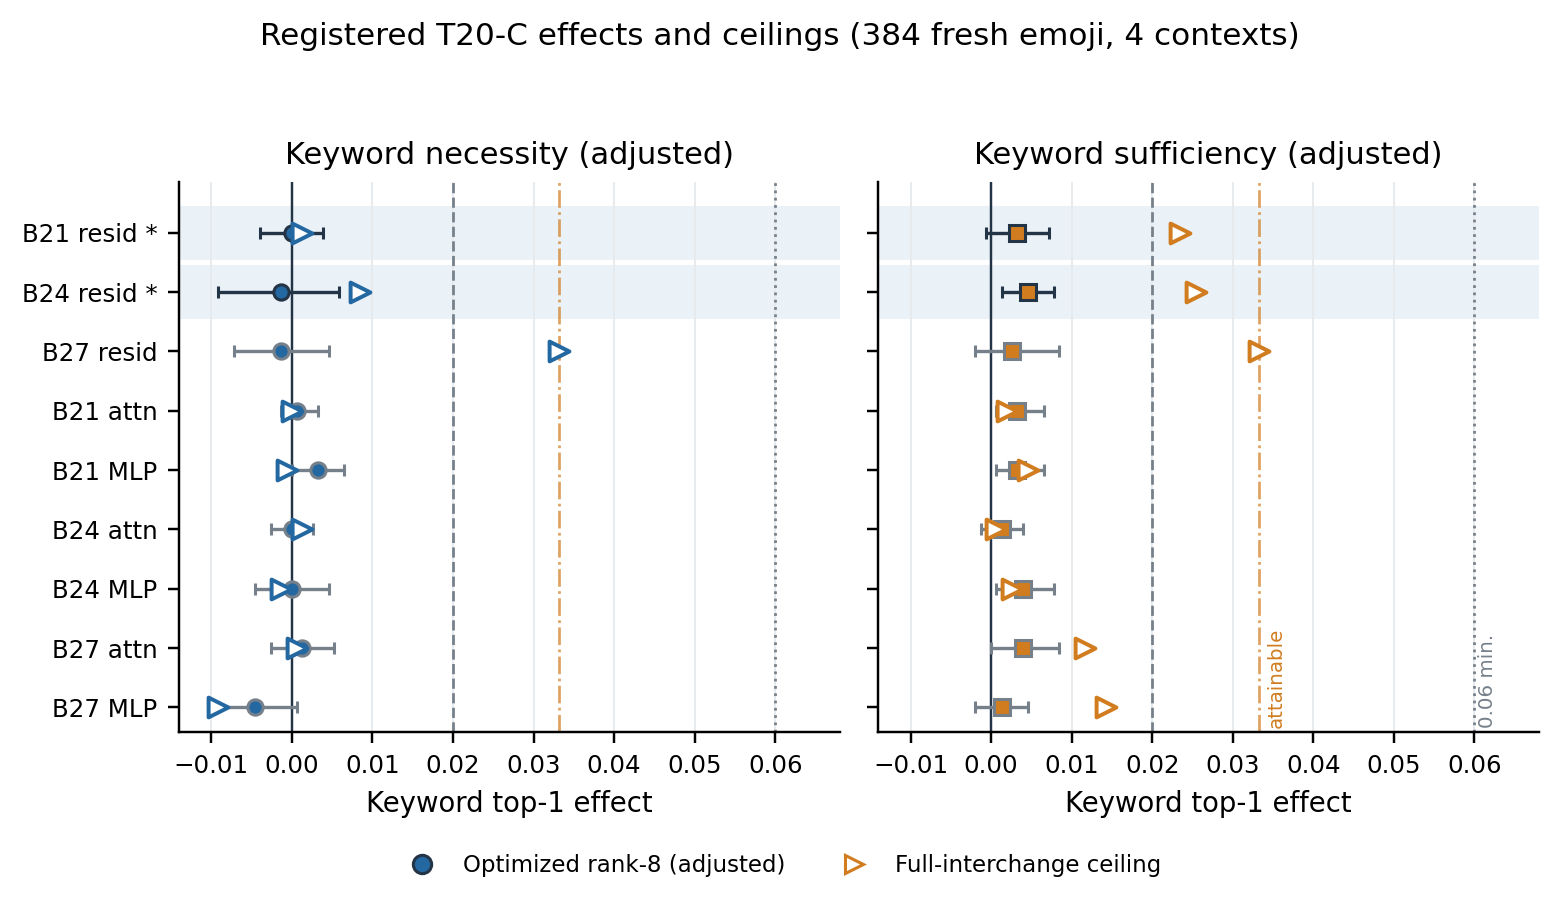
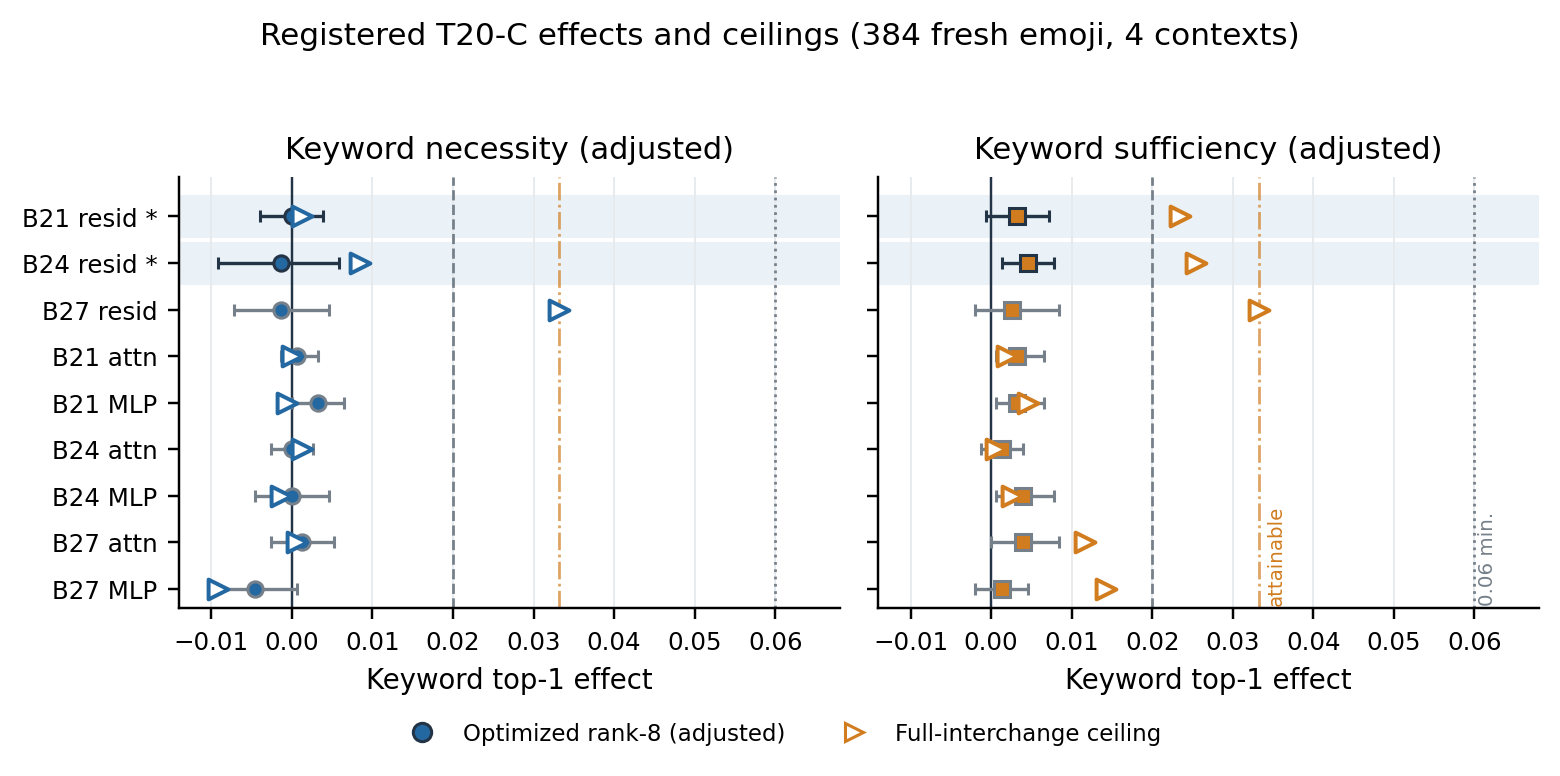
Tighten T20 additions to restore main-text page budget

diff --git a/paper/main.tex b/paper/main.tex
@@ -48,14 +48,12 @@ primary site satisfies the joint necessity-and-sufficiency criterion under
 this single-context, low-baseline test. A second admitted follow-up adds
 interchange-optimized subspaces, residual-stream sites, 384 fresh emoji in
 four contexts, and full-interchange ceilings as positive controls. Its
-registered verdict is that the primary sites are uncalibratable: full
-replacement of the readout-token residual stream at blocks 21--24 transfers
-at most 76\% of the attainable sufficiency range and destroys at most 25\% of
-the necessity range, while the same swap at block 27 transfers retrieval
-exactly. The lexical relation holds in all nine prespecified configurations;
-the readout-token late-subspace account remains unsupported at every tested
-rank, and the final-state signal is instead assembled late from glyph-position
-context.
+registered verdict is that both primary sites are uncalibratable, and the
+ceilings localize the signal: full readout-token swaps transfer retrieval
+exactly at block 27 yet destroy almost nothing at blocks 21--24, so the
+final-state lexical signal is assembled late from glyph-position context.
+The lexical relation holds in all nine prespecified configurations; the
+readout-token late-subspace account remains unsupported at every tested rank.
 \end{abstract}
 
 \section{Introduction}
@@ -104,12 +102,11 @@ results:
   that is jointly necessary and sufficient. A secondary block-27 MLP patch
   raises the composite endpoint through keyword gains and codepoint losses;
   its necessity criterion fails.
-  \item A second conditionally admitted experiment tests whether any rank-8
-  subspace learnable by interchange optimization carries the relation, and
-  calibrates every site with full-interchange ceilings. The registered verdict
-  is uncalibratable at both primary residual-stream sites, and the ceilings
-  localize the attainable signal: near-total at block 27, mostly absent from
-  the readout-token stream at blocks 21--24.
+  \item A second admitted experiment learns rank-8 subspaces by interchange
+  optimization and calibrates every site with full-interchange ceilings. Its
+  registered verdict is uncalibratable at both primary residual sites; the
+  ceilings localize the attainable signal to the final blocks and to
+  glyph-position context.
 \end{itemize}
 
 The observational result extends beyond exact-short-name retrieval under the
@@ -342,52 +339,46 @@ may be replaced after seeing the result.
 
 The T19-C design left its own power uncalibrated. A second experiment,
 admitted only after the T19-C analysis was validated and frozen, changes
-exactly five prespecified things. First, the tested rank-8 basis may be
-\emph{learned}: an orthogonally parametrized subspace is trained on the same
-128 source emoji by interchange optimization (InfoNCE toward the own-item
-keyword state for the patched codepoint forward, plus a hinge pushing the
-ablated glyph forward below its own keyword), with a fixed 96/32
-train/validation split, three seeds, and a pinned selection rule; the T19
-closed-form basis and the deflated random control are recomputed at every
-site as comparators. Second, the residual stream after blocks 21, 24, and 27
-joins the six component sites; the two primaries are the block-21 and
-block-24 residual sites. Third, the decision is gated on the keyword
-component alone, with a codepoint self-retrieval guard ($\geq 0.90$ under the
-learned patch), so that representational disruption cannot pass as
-sufficiency. Fourth, evaluation uses 384 fresh atomic emoji with zero prior
-T19 or T20 forwards, drawn only after re-running the frozen T19 selection
-builder reproduced the frozen selection manifest byte-identically; each item
-is read in four contexts (two carriers $\times$ distances 1 and 4), and
-per-item values are context means. Fifth, every site carries two
-full-interchange ceilings as positive controls: replacing the entire site
-state of the codepoint forward with the same item's glyph state bounds
-attainable sufficiency, and the reverse swap bounds attainable necessity. The
-registered interpretation rule states that a primary site failing the
-decision while its sufficiency ceiling is below $0.06$ is recorded as
-\emph{uncalibratable at this endpoint} rather than as evidence against the
-low-rank account; no ceiling value can flip a failed decision to positive.
-Floors, sign-flip and bootstrap procedures, Holm correction, and exact
+exactly five prespecified things. (i) The rank-8 basis may be \emph{learned}:
+an orthogonally parametrized subspace is trained on the same 128 source emoji
+by interchange optimization (InfoNCE toward the own-item keyword state for
+the patched codepoint forward, plus a hinge pushing the ablated glyph forward
+below its own keyword), with a fixed 96/32 train/validation split, three
+seeds, and a pinned selection rule; the closed-form and random bases are
+recomputed at every site as comparators. (ii) The residual stream after
+blocks 21, 24, and 27 joins the six component sites, with the block-21 and
+block-24 residual sites primary. (iii) The decision is gated on the keyword
+component alone, with a codepoint self-retrieval guard ($\geq0.90$ under the
+learned patch), so disruption cannot pass as sufficiency. (iv) Evaluation
+uses 384 fresh atomic emoji with zero prior T19/T20 forwards, drawn only
+after re-running the frozen T19 selection builder reproduced the frozen
+manifest byte-identically, each read in four contexts (two carriers $\times$
+distances 1 and 4) with per-item context means. (v) Every site carries two
+full-interchange ceilings: swapping the entire site state between same-item
+glyph and codepoint forwards bounds attainable sufficiency and necessity. By
+the registered rule, a primary site that fails while its sufficiency ceiling
+is below $0.06$ is recorded as \emph{uncalibratable at this endpoint} rather
+than as evidence against the low-rank account, and no ceiling can flip a
+failed decision to positive. Floors, tests, Holm correction, and exact
 engineering gates are unchanged from T19-C.
 
 \subsection{Freeze, admission, and audit chain}
 \label{sec:freeze}
 
 The prospective claims above are enforced mechanically rather than asserted.
-A freeze step hashes every protocol asset (configuration, item selections,
-acquisition and analysis code, preflight receipts) into a manifest that can
-only be built while two zero-forward preflight receipts exist, and an audit
-command re-hashes every asset and fails unless the freeze commit is pushed to
-the repository default branch. Each causal arm opens through a separate
-admission manifest that binds the freeze-manifest hash, the parent
-analysis-receipt hash, the item-bank hashes, and forward counters
-required to read zero at admission time; T20-C additionally binds the
-validated T19-C analysis receipt. Each causal executor rehashes its own
-file at every invocation and refuses to run if it differs from the hash bound
-at admission. The timestamped freeze and admission manifests
-(\texttt{*\_freeze.json}, \texttt{*\_go.json}), the zero-forward preflight
-receipts, and the independent validation receipts are included in the
-anonymous supplement, so this ordering is checkable from the submitted
-package rather than testimonial.
+A freeze step hashes every protocol asset into a manifest that can only be
+built while zero-forward preflight receipts exist, and an audit command
+re-hashes every asset and fails unless the freeze commit is pushed to the
+repository default branch. Each causal arm opens through an admission
+manifest binding the freeze hash, the parent analysis-receipt hash (for
+T20-C, the validated T19-C receipt), the item-bank hashes, and forward
+counters required to read zero at admission. Each causal executor rehashes
+its own file at every invocation and refuses to run if it differs from the
+hash bound at admission. The timestamped freeze and admission manifests
+(\texttt{*\_freeze.json}, \texttt{*\_go.json}), preflight receipts, and
+independent validation receipts are included in the anonymous supplement, so
+this ordering is checkable from the submitted package rather than
+testimonial.
 
 \section{Results}
 \label{sec:results}
@@ -511,15 +502,14 @@ necessary keyword mechanism.
 
 A post-hoc calibration, computed after the registered decision and labeled as
 such, replaced the entire component output with the same item's other-view
-output at each site. Full interchange at the primary block-24 sites moved
-keyword top-1 by $0.0000$ (attention) and $+0.0052$ (MLP): the registered
-$0.02$ floor demanded more adjusted effect than total replacement could
+output at each site (Appendix \ref{app:causal}). Full interchange at the
+primary block-24 sites moved keyword top-1 by $0.0000$ (attention) and
+$+0.0052$ (MLP): the $0.02$ floor demanded more than total replacement could
 produce, so the primary negative is best read as uncalibrated rather than as
-evidence about rank. At block 27, the same swap yielded keyword ceilings of
-$+0.0417$ (attention) and $+0.0365$ (MLP), while the block-27 MLP
-\emph{composite} ceiling was $+0.2448$, quantifying how much of that
-endpoint's headroom comes from destroyed self-retrieval rather than keyword
-gains. These numbers motivated the registered ceilings of the follow-up.
+evidence about rank. The block-27 MLP composite ceiling ($+0.2448$ against a
+keyword-only $+0.0365$) quantifies how much of that endpoint's headroom was
+destroyed self-retrieval. These numbers motivated the registered ceilings of
+the follow-up.
 
 \subsection{The optimized-subspace follow-up is uncalibratable at its
 primary sites and localizes the signal}
@@ -528,44 +518,39 @@ primary sites and localizes the signal}
 T20-C's registered outcome is negative with a specific registered meaning:
 both primary residual sites return the verdict \emph{uncalibratable at this
 endpoint} (site IUT values $0.624$ and $0.679$; sufficiency ceilings
-$+0.0234$ and $+0.0254$, below the registered $0.06$ informativeness
-minimum). No secondary site passes either. All engineering checks are again
-exactly zero, and an independent validator that imports only NumPy and YAML
-re-derived every reported number, both verdicts, and the admission chain.
+$+0.0234$ and $+0.0254$, below the registered $0.06$ minimum). No secondary
+site passes either. All engineering checks are again exactly zero, and an
+independent validator re-derived every reported number, both verdicts, and
+the admission chain.
 
-The ceilings, registered descriptive controls rather than post-hoc additions,
-carry the finding (Figure \ref{fig:t20-ceilings}; exact values in Appendix
-\ref{app:t20}). On the fresh 384-item bank the glyph baseline is keyword
-top-1 $0.0345$ against a codepoint-input baseline of $0.0013$, so the
-attainable sufficiency range is $0.0332$. Swapping the readout-token residual
-stream at block 27 transfers retrieval \emph{exactly}: the swapped codepoint
-forward reaches $0.0345$ and the swapped glyph forward falls to $0.0013$,
-reproducing the two baselines and confirming that the endpoint can detect a
-carrier when one is present. Yet the same full swap three blocks earlier
-behaves asymmetrically. Injection carries most of the attainable range
-(sufficiency ceilings $71\%$ at block 21 and $76\%$ at block 24 of $0.0332$),
-but removal costs almost nothing (necessity ceilings $4\%$ and $25\%$): a
-glyph forward whose readout-token stream is entirely replaced by the
-codepoint stream still retrieves its keyword at near-baseline rates. The six
-component-output ceilings are smaller still (sufficiency at most $14\%$ of
-the attainable range; block-24 attention $2\%$). The final-state lexical
-signal is therefore not carried through the readout-token stream at blocks
-21--24 at any rank; late computation reassembles it from the glyph-position
-context whenever that context is present.
+The ceilings, registered controls rather than post-hoc additions, carry the
+finding (Figure \ref{fig:t20-ceilings}; exact values in Appendix
+\ref{app:t20}). On the fresh bank the glyph baseline is keyword top-1
+$0.0345$ against a codepoint-input $0.0013$, so the attainable range is
+$0.0332$. Swapping the readout-token residual stream at block 27 transfers
+retrieval \emph{exactly}, reproducing both baselines and confirming the
+endpoint detects a carrier when one is present. The same swap three blocks
+earlier is asymmetric: injection carries most of the attainable range
+(sufficiency ceilings $71\%$ and $76\%$ at blocks 21 and 24), but removal
+costs almost nothing (necessity ceilings $4\%$ and $25\%$) --- a glyph
+forward whose readout-token stream is entirely replaced still retrieves its
+keyword at near-baseline rates. Component-output ceilings are smaller still
+(at most $14\%$; block-24 attention $2\%$). The final-state lexical signal is
+therefore not carried through the readout-token stream at blocks 21--24 at
+any rank; late computation reassembles it from glyph-position context
+whenever that context is present.
 
-The optimized rank-8 subspaces sharpen the same conclusion. Training fits the
-source items well where the site carries signal (final InfoNCE loss $0.52$ to
-$0.65$ at the block-21 residual, own-item softmax mass near $0.6$, against a
-chance level of $4.85$) and cannot fit at all at the attention outputs (loss
-$5.0$ to $6.3$), yet held-out source validation stays at zero to one item
-across all nine sites and three seeds. On the fresh bank the learned
-subspaces transfer a real but tiny sufficiency effect (block-24 residual
-adjusted $+0.0046$, one-sided $p=0.0085$, interval $[+0.0013,+0.0078]$),
-an order of magnitude below the floor and about $18\%$ of that site's own
-ceiling; the block-21 learned patch also breaks the codepoint self-retrieval
-guard ($0.818<0.90$). A rank-8 basis can memorize item-specific directions
-but finds no shared low-rank carrier, and the ceilings show there was little
-to find at these sites.
+The optimized subspaces sharpen the same conclusion. Training fits the source
+items where the site carries signal (final InfoNCE $0.52$--$0.65$ at the
+block-21 residual against a $4.85$ chance level) and cannot fit at the
+attention outputs ($5.0$--$6.3$), yet held-out source validation stays at
+zero to one item across all nine sites and three seeds. On the fresh bank the
+learned subspaces transfer a real but tiny sufficiency effect (block-24
+residual adjusted $+0.0046$, $p=0.0085$, an order of magnitude below the
+floor), and the block-21 patch breaks the self-retrieval guard
+($0.818<0.90$). A rank-8 basis can memorize item-specific directions but
+finds no shared low-rank carrier, and the ceilings show there was little to
+find at these sites.
 
 \begin{figure}[t]
   \centering
@@ -595,25 +580,21 @@ The causal arms then bound one mechanistic family three ways. T19-C's
 closed-form rank-8 component account fails its joint criterion, and the
 post-hoc calibration shows its primary sites offered almost no attainable
 interchange effect in the first place. T20-C makes calibration part of the
-registered design and returns uncalibratable at its primary residual sites:
-the registered informativeness minimum exceeds what even full-state
-interchange can move there. The same registered ceilings supply the positive
-content. Injection of the full readout-token stream transfers most of the
-attainable range while removal costs little, and both directions become exact
-at block 27. The final-state keyword signal is therefore redundantly sourced:
-late computation reads it from glyph-position context whenever that context
-exists, and the readout-token stream only becomes the carrier in the last
-blocks. Optimization adds that no generalizing rank-8 carrier exists even
-where injection transfers signal, although a rank-8 basis can memorize the
-training items. A future preregistered test should intervene on the
-glyph-position sources themselves, for example late attention paths from
-glyph tokens, rather than on the readout-token state.
+registered design and returns uncalibratable at its primary residual sites.
+The same registered ceilings supply the positive content: injection of the
+full readout-token stream transfers most of the attainable range while
+removal costs little, and both directions become exact at block 27. The
+final-state keyword signal is therefore redundantly sourced --- late
+computation reads it from glyph-position context whenever that context
+exists, and the readout-token stream becomes the carrier only in the last
+blocks --- while optimization adds that no generalizing rank-8 carrier exists
+even where injection transfers signal. A future preregistered test should
+intervene on the glyph-position sources themselves, for example late
+attention paths from glyph tokens, rather than on the readout-token state.
 
 The block-27 MLP asymmetry in T19-C sharpens the same lesson from the other
-side. Its patch moved the composite endpoint mainly by degrading codepoint
-self-retrieval, and the post-hoc composite ceiling ($+0.2448$ against a
-keyword-only ceiling of $+0.0365$) quantifies how much of that headroom was
-disruption. Requiring necessity, sufficiency, random-subspace adjustment,
+side: its patch moved the composite endpoint mainly by degrading codepoint
+self-retrieval. Requiring necessity, sufficiency, random-subspace adjustment,
 restoration, component-gated endpoints, and disjoint evaluation sets prevents
 such movement from being upgraded to a circuit claim.
 

diff --git a/paper/scripts/build_figures.py b/paper/scripts/build_figures.py
@@ -197,7 +197,7 @@ def validate_t20(payload: dict[str, Any]) -> list[dict[str, Any]]:
 
 
 def build_t20_ceilings(sites: list[dict[str, Any]]) -> list[Path]:
-    fig, axes = plt.subplots(1, 2, figsize=(7.15, 4.0), sharey=True, sharex=True)
+    fig, axes = plt.subplots(1, 2, figsize=(7.15, 3.4), sharey=True, sharex=True)
     site_word = {"resid_out": "resid", "attn_out": "attn", "mlp_out": "MLP"}
     labels = [
         f"B{row['block_index']} {site_word[row['site']]}"
